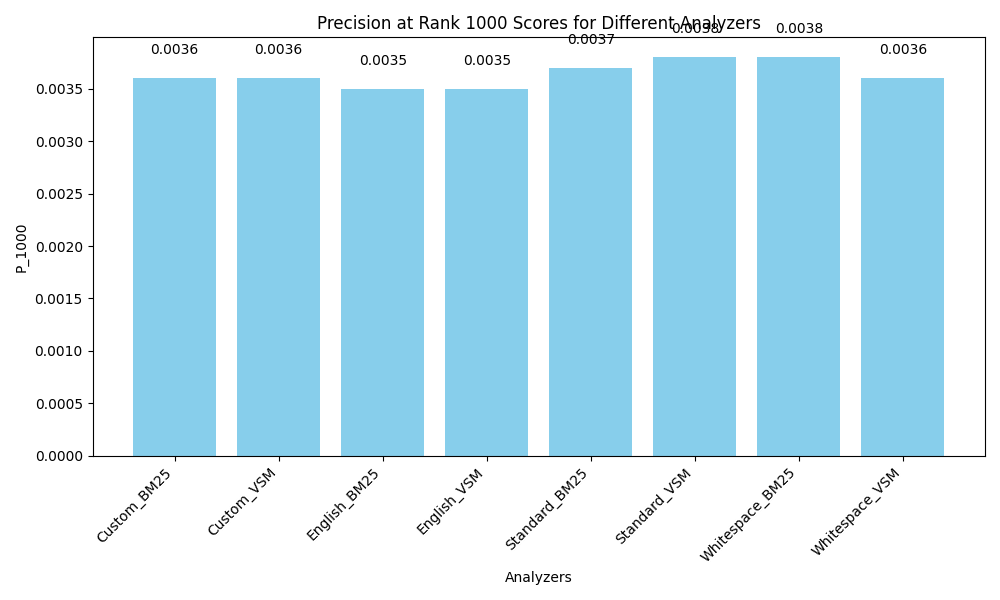
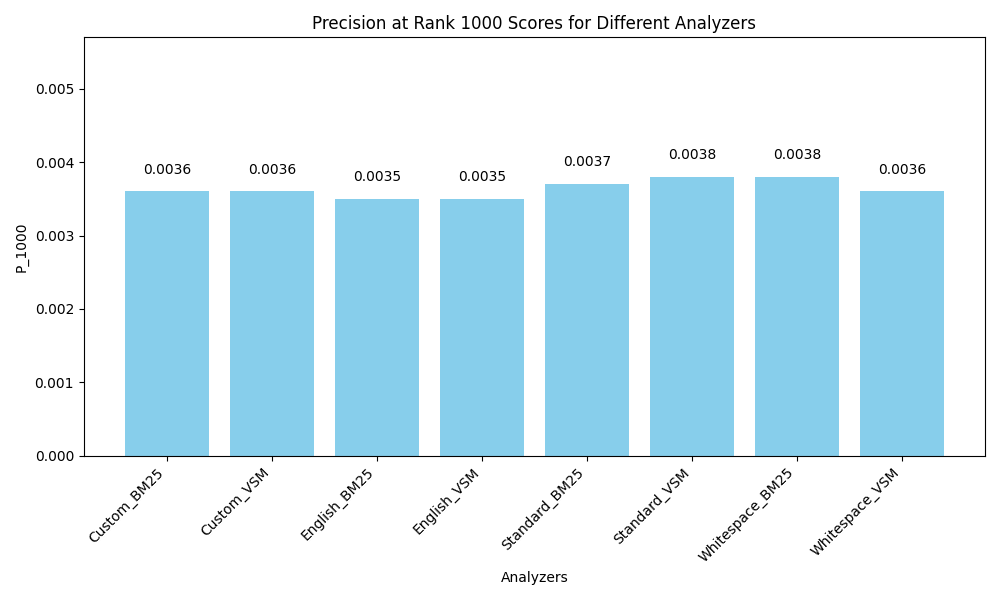
Corrected the bar plots

diff --git a/plot_bar.py b/plot_bar.py
@@ -22,6 +22,9 @@ def plot_bargraph(metric_name, values, y_label, file_name):
     ax.set_title(f'{metric_name} for Different Analyzers')
     ax.set_xlabel('Analyzers')
     ax.set_ylabel(y_label)
+
+    ax.set_ylim(0, max(values) * 1.5) 
+
     ax.set_xticks(range(len(analyzers)))
     ax.set_xticklabels(analyzers, rotation=45, ha="right")
 
